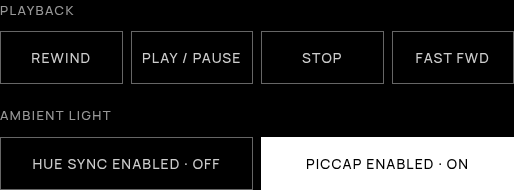
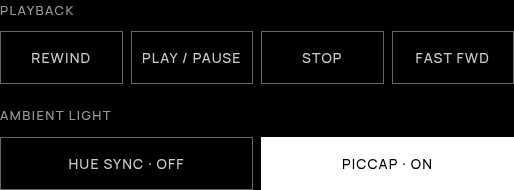
Standardize Ambient Light naming and shorten remote labels

Changed region(s): [[0.0623, 0.8158, 0.4358, 0.8947], [0.5914, 0.8158, 0.9339, 0.8947]]

diff --git a/server/assets/ui.html b/server/assets/ui.html
@@ -66,7 +66,7 @@
     <button type="button" role="tab" data-tab="metrics"><svg class="nav-ico" viewBox="0 0 24 24" aria-hidden="true"><path d="M3 12h4l2-5 4 10 2-5h6"/></svg><span data-t="tab.metrics">Metrics</span></button>
     <button type="button" role="tab" data-tab="apps"><svg class="nav-ico" viewBox="0 0 24 24" aria-hidden="true"><rect x="4" y="4" width="6.5" height="6.5" rx="1.5"/><rect x="13.5" y="4" width="6.5" height="6.5" rx="1.5"/><rect x="4" y="13.5" width="6.5" height="6.5" rx="1.5"/><rect x="13.5" y="13.5" width="6.5" height="6.5" rx="1.5"/></svg><span data-t="tab.apps">Apps</span></button>
     <button type="button" role="tab" data-tab="home" id="tab-btn-home" hidden><svg class="nav-ico" viewBox="0 0 24 24" aria-hidden="true"><path d="M4 11l8-6.5 8 6.5"/><path d="M6.5 9.5V19h11V9.5"/><path d="M10.5 19v-5h3v5"/></svg><span data-t="tab.home">Home</span></button>
-    <button type="button" role="tab" data-tab="ambient"><svg class="nav-ico" viewBox="0 0 24 24" aria-hidden="true"><rect x="6" y="7" width="12" height="10" rx="1.5"/><path d="M3 8v8M21 8v8M8 4h8M8 20h8"/></svg><span data-t="adv.ambient">Ambient light</span></button>
+    <button type="button" role="tab" data-tab="ambient"><svg class="nav-ico" viewBox="0 0 24 24" aria-hidden="true"><rect x="6" y="7" width="12" height="10" rx="1.5"/><path d="M3 8v8M21 8v8M8 4h8M8 20h8"/></svg><span data-t="adv.ambient">Ambient Light</span></button>
     <button type="button" role="tab" data-tab="privacy"><svg class="nav-ico" viewBox="0 0 24 24" aria-hidden="true"><path d="M12 3l7 3v5.5c0 4.4-3 8-7 9.5-4-1.5-7-5.1-7-9.5V6z"/></svg><span data-t="tab.privacy">Privacy</span></button>
     <button type="button" role="tab" data-tab="oledcare" id="tab-btn-oledcare" hidden><svg class="nav-ico" viewBox="0 0 24 24" aria-hidden="true"><rect x="3" y="5" width="18" height="12" rx="1.5"/><path d="M8 20h8M12 8.5v5M9.5 11h5"/></svg><span data-t="tab.oledCare">OLED Care</span></button>
     <button type="button" role="tab" data-tab="game" id="tab-btn-game" hidden><svg class="nav-ico" viewBox="0 0 24 24" aria-hidden="true"><path d="M7 8h10a4 4 0 0 1 4 4v1.5a3 3 0 0 1-5.4 1.8L14.5 14h-5l-1.1 1.3A3 3 0 0 1 3 13.5V12a4 4 0 0 1 4-4z"/><path d="M7.5 11v2.5M6.25 12.25h2.5M16 12h.01"/></svg><span data-t="tab.game">Game</span></button>
@@ -323,10 +323,10 @@
       </div>
 
       <div class="set" id="control-ambient" hidden>
-        <div class="lbl" data-t="adv.ambient">Ambient light</div>
+        <div class="lbl" data-t="adv.ambient">Ambient Light</div>
         <div class="btns">
-          <button type="button" id="ctl_huesync" onclick="toggleHuesync()" aria-pressed="false" hidden><span data-t="adv.huesync">Hue Sync Enabled</span> &middot; <span id="ctl_huesync_state">&mdash;</span></button>
-          <button type="button" id="ctl_piccap" onclick="togglePiccap()" aria-pressed="false" hidden><span data-t="adv.piccap">PicCap Enabled</span> &middot; <span id="ctl_piccap_state">&mdash;</span></button>
+          <button type="button" id="ctl_huesync" onclick="toggleHuesync()" aria-pressed="false" hidden><span data-t="adv.huesync.title">Hue Sync</span> &middot; <span id="ctl_huesync_state">&mdash;</span></button>
+          <button type="button" id="ctl_piccap" onclick="togglePiccap()" aria-pressed="false" hidden><span data-t="ambient.piccap.title">PicCap</span> &middot; <span id="ctl_piccap_state">&mdash;</span></button>
         </div>
       </div>
     </div>
@@ -619,7 +619,7 @@
 </section>
 
 <section class="priv panel" id="ambientpane" role="tabpanel" hidden>
-  <div class="lbl" data-t="adv.ambient">Ambient light</div>
+  <div class="lbl" data-t="adv.ambient">Ambient Light</div>
   <div class="sub" id="ambient-empty" hidden data-t="ambient.none">No ambient light integrations found.</div>
   <div id="ambient-huesync" hidden>
     <div class="pv-sec" data-t="adv.huesync.title">Hue Sync</div>

diff --git a/scripts/check-dashboards.js b/scripts/check-dashboards.js
@@ -2832,7 +2832,7 @@ async function visitHuesyncSettings(browser, base, problems) {
     await page.goto(base + '/?tab=advanced');
     if (await page.locator('#advpane #row-piccap, #advpane #row-huesync').count()) fail('ambient controls remain in System');
     const followsHome = await page.locator('#tabs [data-tab="ambient"]').evaluate(el => el.previousElementSibling.dataset.tab === 'home');
-    if (!followsHome) fail('Ambient light does not follow Home');
+    if (!followsHome) fail('Ambient Light does not follow Home');
     await page.locator('#tabs [data-tab="ambient"]').click();
     await page.waitForSelector('#huesync-settings:not([hidden])');
     const categories = await page.locator('#ambient-huesync, #ambient-piccap').evaluateAll(els => els.filter(el => !el.hidden).map(el => el.querySelector('.pv-sec').textContent));
@@ -2851,8 +2851,8 @@ async function visitHuesyncSettings(browser, base, problems) {
     const underPlayback = await page.evaluate(() => document.getElementById('control-ambient').getBoundingClientRect().top >= document.querySelector('.playback-btns').getBoundingClientRect().bottom);
     if (!underPlayback) fail('remote toggles are not below Playback');
     const shortcuts = await page.locator('#control-ambient button').evaluateAll(els => els.map(el => el.querySelector('[data-t]').textContent));
-    if (JSON.stringify(shortcuts) !== JSON.stringify(['Hue Sync Enabled', 'PicCap Enabled'])) fail('remote shortcut order or names differ from settings');
-    if (await page.locator('#ctl_piccap').getAttribute('aria-pressed') !== 'true' || await page.locator('#ctl_huesync').getAttribute('aria-pressed') !== 'false') fail('remote toggle states differ from Ambient light');
+    if (JSON.stringify(shortcuts) !== JSON.stringify(['Hue Sync', 'PicCap'])) fail('remote shortcut order or short labels are wrong');
+    if (await page.locator('#ctl_piccap').getAttribute('aria-pressed') !== 'true' || await page.locator('#ctl_huesync').getAttribute('aria-pressed') !== 'false') fail('remote toggle states differ from Ambient Light');
     await page.locator('#ctl_huesync').click();
     await page.waitForFunction(() => document.getElementById('ctl_huesync').getAttribute('aria-pressed') === 'true' && document.getElementById('btn_huesync').dataset.on === '1');
     await page.locator('#ctl_piccap').click();
@@ -2861,7 +2861,7 @@ async function visitHuesyncSettings(browser, base, problems) {
     await page.setViewportSize({ width: 390, height: 844 });
     await page.emulateMedia({ colorScheme: 'light' });
     await page.waitForFunction(() => document.getElementById('control-playback').getBoundingClientRect().width > 300);
-    if (await page.evaluate(() => document.documentElement.scrollWidth > window.innerWidth)) fail('remote Enabled labels overflow on a phone');
+    if (await page.evaluate(() => document.documentElement.scrollWidth > window.innerWidth)) fail('remote labels overflow on a phone');
     await page.evaluate(() => showTab('ambient'));
     if (await page.locator('#huesync-current_ec option').first().textContent() !== settings.ec_list[0].name) fail('area name was not rendered as text');
     if (await page.locator('#huesync-settings img').count()) fail('area markup was interpreted');

diff --git a/test/test-dashboard-view.js b/test/test-dashboard-view.js
@@ -147,7 +147,7 @@ vm.runInNewContext(scriptMatch[1] + '\n;' + testPagingSnippet, sandbox);
   console.log('  ✓ optionRows groups Power & standby and Timers with distinct headers');
 })();
 
-// Ambient light keeps both integrations and every Hue Sync control directly accessible.
+// Ambient Light keeps both integrations and every Hue Sync control directly accessible.
 (function testHuesyncRows() {
   var settings = JSON.parse(fs.readFileSync(path.join(__dirname, 'fixtures/huesync-settings.json'), 'utf8')).settings;
   var hs = { streaming: true, writable: true, settings: settings };
@@ -193,7 +193,7 @@ vm.runInNewContext(scriptMatch[1] + '\n;' + testPagingSnippet, sandbox);
 (function testAmbientIntegrations() {
   var keys = sandbox.TABS.map(function (section) { return section.key; });
   var ambient = sandbox.TABS[keys.indexOf('ambient')];
-  assert.strictEqual(keys.indexOf('ambient'), keys.indexOf('home') + 1, 'Ambient light follows Home');
+  assert.strictEqual(keys.indexOf('ambient'), keys.indexOf('home') + 1, 'Ambient Light follows Home');
   assert.strictEqual(ambient.url, '/api/stats', 'ambient controls need no unrelated LG settings');
   assert.strictEqual(ambient.build, sandbox.ambientRows);
   var pc = { running: true, writable: true };
@@ -217,7 +217,7 @@ vm.runInNewContext(scriptMatch[1] + '\n;' + testPagingSnippet, sandbox);
   assert.strictEqual(only[1].next, true);
   assert.strictEqual(only[1].act, null, 'PicCap respects read-only mode');
   assert.strictEqual(sandbox.SUBLISTS.huesyncMore, undefined, 'no ambient submenu remains');
-  console.log('  \u2713 top-level Ambient light menu, independent integrations and empty state');
+  console.log('  \u2713 top-level Ambient Light menu, independent integrations and empty state');
 })();
 
 // 4. page() jumps through rows skipping headers and clamps to bounds

diff --git a/server/assets/dashboard.html b/server/assets/dashboard.html
@@ -426,7 +426,7 @@ var TABS = [
   { key: 'audio',   label: t('tab.audio', 'Audio'),        url: '/api/audio?with=settings', build: audioRows, poll: 8000 },
   { key: 'saver',   label: t('tv.tab.screenSaver', 'Screen Saver'), url: '/api/screensaver', build: saverRows, optional: true },
   { key: 'home',    label: t('tab.home', 'Home'),         url: '/api/home?with=catalogue,channels,lghome', build: homeRows, optional: true },
-  { key: 'ambient', label: t('adv.ambient', 'Ambient light'), url: '/api/stats', build: ambientRows, poll: 5000 },
+  { key: 'ambient', label: t('adv.ambient', 'Ambient Light'), url: '/api/stats', build: ambientRows, poll: 5000 },
   { key: 'privacy', label: t('tab.privacy', 'Privacy'),      url: '/api/privacy',     build: privacyRows },
   { key: 'service', label: t('tv.tab.serviceMenu', 'Service Menu'), url: '/api/servicemenu', build: svcRows },
   { key: 'options', label: t('tv.tab.system', 'System'),       url: '/api/stats?with=settings', build: optionRows, poll: 5000 },

diff --git a/server/assets/ui/search.js b/server/assets/ui/search.js
@@ -18,7 +18,7 @@
   const TAB_ALIASES = window.GLASSHOUSE_SEARCH_ALIASES || {};
 
   const TAB_NAMES = {
-    control: 'Control', metrics: 'Metrics', apps: 'Apps', home: 'Home', ambient: 'Ambient light',
+    control: 'Control', metrics: 'Metrics', apps: 'Apps', home: 'Home', ambient: 'Ambient Light',
     oledcare: 'OLED Care', game: 'Game', servicemenu: 'Service menu',
     screensaver: 'Screensaver', privacy: 'Privacy', advanced: 'System',
     mqtt: 'MQTT', server: 'Server', tools: 'Tools'

diff --git a/server/lib/routes.js b/server/lib/routes.js
@@ -2143,7 +2143,7 @@ function handleRequest(req, res) {
   if (pathname === '/api/stats') {
     return telemetryModule.collectStats(function (s) {
       // PicCap's capture and Hue Sync's streaming, where installed, for the
-      // Ambient light tab.
+      // Ambient Light tab.
       piccapStatusFn(function (pc) {
         huesyncStatusFn(function (hs) {
           var keyboardUp = keyboardUpFn();

diff --git a/server/assets/ui/controls.js b/server/assets/ui/controls.js
@@ -1,4 +1,4 @@
-// The Control, System and Ambient light tabs: power, volume, backlight and the TV's switches.
+// The Control, System and Ambient Light tabs: power, volume, backlight and the TV's switches.
 
 let errTimer = null;
 function clearErr() {

diff --git a/docs/IMPLEMENTATION.md b/docs/IMPLEMENTATION.md
@@ -1914,11 +1914,11 @@ Custom QML screensavers are staged in `/var/lib/tvweb/screensaver` and bind-moun
 
 ## PicCap
 
-The server asks PicCap's service only where `/media/developer/apps/usr/palm/applications/org.webosbrew.piccap` exists and webOS is version 3 or later, so a TV without it or running webOS 2 starts no `luna-send` for it (querying PicCap's native service on webOS 2 stalled the Luna bus and tripped a watchdog reboot, #746). For Home Assistant it polls every `piccap.pollIntervalMs` milliseconds (30 seconds by default) while MQTT is connected and the `piccap` entity is not switched off in the entity settings. An old `"piccap": {"enabled": false}` is turned into exactly that at start-up, and the key removed. Telemetry includes boolean `piccap.power` while PicCap answers; the bridge publishes retained `ON` or `OFF` to `<prefix>/state/piccap/power`, and `<prefix>/command/piccap/power` accepts `ON` or `OFF` when `allowControl` is enabled. Discovery carries the `piccap` switch only while a status check has answered, and is republished when that changes. `/api/stats` adds `piccapCapture: {running}` where PicCap answers, for the Ambient light page and Control quick toggle, which send the `piccap` control; `writable` reflects `allowControl` on both dashboards.
+The server asks PicCap's service only where `/media/developer/apps/usr/palm/applications/org.webosbrew.piccap` exists and webOS is version 3 or later, so a TV without it or running webOS 2 starts no `luna-send` for it (querying PicCap's native service on webOS 2 stalled the Luna bus and tripped a watchdog reboot, #746). For Home Assistant it polls every `piccap.pollIntervalMs` milliseconds (30 seconds by default) while MQTT is connected and the `piccap` entity is not switched off in the entity settings. An old `"piccap": {"enabled": false}` is turned into exactly that at start-up, and the key removed. Telemetry includes boolean `piccap.power` while PicCap answers; the bridge publishes retained `ON` or `OFF` to `<prefix>/state/piccap/power`, and `<prefix>/command/piccap/power` accepts `ON` or `OFF` when `allowControl` is enabled. Discovery carries the `piccap` switch only while a status check has answered, and is republished when that changes. `/api/stats` adds `piccapCapture: {running}` where PicCap answers, for the Ambient Light page and Control quick toggle, which send the `piccap` control; `writable` reflects `allowControl` on both dashboards.
 
 ## Hue Sync
 
-Hue Sync is offered where `/media/cryptofs/apps/usr/palm/services/com.lighting.huesync.service` exists, the retail install from LG's store, so a TV without the app starts no `luna-send` for it. For Home Assistant it polls `com.lighting.huesync.service/get` (`{"key":"streaming","data":""}`, the reply carries the state as `value`: `"0"` stopped, `"1"` streaming) every `huesync.pollIntervalMs` milliseconds (30 seconds by default) while MQTT is connected and the `huesync` entity is not switched off in the entity settings. Every call carries the app's ACL id `com.lighting.huesync`, the service's own. Toggling sends `com.lighting.huesync.service/set` with `{"key":"streaming","data":true|false}` and re-reads the state 400 ms later, like PicCap's start/stop; an enable instead waits 3 s after each `set` and is sent again until that re-read reports streaming, up to three attempts, because the app answers the first `set` with `returnValue` true while its own `get` still reads `"0"`, or reads `"1"` once and falls back to `"0"` seconds later. Telemetry includes boolean `huesync.streaming` while Hue Sync answers; the bridge publishes retained `ON` or `OFF` to `<prefix>/state/huesync/power`, and `<prefix>/command/huesync/power` accepts `ON` or `OFF` when `allowControl` is enabled. Discovery carries the `huesync` switch only while a status check has answered, and is republished when that changes. `/api/stats` adds `huesyncStreaming: {streaming}` where Hue Sync answers, for the Ambient light page and Control quick toggle, which send the `huesync` control.
+Hue Sync is offered where `/media/cryptofs/apps/usr/palm/services/com.lighting.huesync.service` exists, the retail install from LG's store, so a TV without the app starts no `luna-send` for it. For Home Assistant it polls `com.lighting.huesync.service/get` (`{"key":"streaming","data":""}`, the reply carries the state as `value`: `"0"` stopped, `"1"` streaming) every `huesync.pollIntervalMs` milliseconds (30 seconds by default) while MQTT is connected and the `huesync` entity is not switched off in the entity settings. Every call carries the app's ACL id `com.lighting.huesync`, the service's own. Toggling sends `com.lighting.huesync.service/set` with `{"key":"streaming","data":true|false}` and re-reads the state 400 ms later, like PicCap's start/stop; an enable instead waits 3 s after each `set` and is sent again until that re-read reports streaming, up to three attempts, because the app answers the first `set` with `returnValue` true while its own `get` still reads `"0"`, or reads `"1"` once and falls back to `"0"` seconds later. Telemetry includes boolean `huesync.streaming` while Hue Sync answers; the bridge publishes retained `ON` or `OFF` to `<prefix>/state/huesync/power`, and `<prefix>/command/huesync/power` accepts `ON` or `OFF` when `allowControl` is enabled. Discovery carries the `huesync` switch only while a status check has answered, and is republished when that changes. `/api/stats` adds `huesyncStreaming: {streaming}` where Hue Sync answers, for the Ambient Light page and Control quick toggle, which send the `huesync` control.
 
 
 
@@ -1957,11 +1957,11 @@ Assistant; it is used internally for control validation and dashboard write perm
 
 The TV app's Hue Sync rows are in `server/assets/dashboard.html`; both the
 Homebrew Channel launcher in `hbc/app/` and `assets/dashboard-app/` load that page.
-Its Ambient light menu follows Home and reuses the existing remote adjustment
+Its Ambient Light menu follows Home and reuses the existing remote adjustment
 bar and write queue for brightness, with native-value cycles for selects. Both
 dashboards have separate Hue Sync and PicCap categories, in that order, with
 Hue Sync Enabled and PicCap Enabled switches. Every supported setting appears
 directly. The web Control page has the same toggles below Playback; they share
-state and write permissions with Ambient light. Status callbacks check the apps’
+state and write permissions with Ambient Light. Status callbacks check the apps’
 install paths before calling Luna, and unavailable integrations are hidden as
 complete categories and shortcuts.

diff --git a/docs/huesync.md b/docs/huesync.md
@@ -13,9 +13,9 @@ Hue Sync is optional. Glasshouse inspects the TV filesystem for the app's servic
 * **If Hue Sync is not installed:** Glasshouse never queries its Luna service, opens no Luna subscription and sends no network requests. Nothing about it appears anywhere.
 * **If Hue Sync is installed:** Glasshouse queries its service (`com.lighting.huesync.service/get`) to check whether streaming is active.
 
-### The Ambient light page
+### The Ambient Light page
 
-When Hue Sync is installed, the **Ambient light** page (`/?tab=ambient`), below Home in the sidebar, shows a **Hue Sync** category before PicCap, with a **Hue Sync Enabled** toggle. The **Control** page also has a quick toggle below Playback:
+When Hue Sync is installed, the **Ambient Light** page (`/?tab=ambient`), below Home in the sidebar, shows a **Hue Sync** category before PicCap, with a **Hue Sync Enabled** toggle. The **Control** page also has a quick toggle below Playback:
 
 * **On:** Instructs Hue Sync's service to start streaming (`com.lighting.huesync.service/set` with `{"key":"streaming","data":true}`). The Ambience light starts following the screen. The app often does not start on an enable without saying so, so Glasshouse sends the enable, waits 3 seconds and asks the app's own state; if it still is not streaming, it sends the enable again, up to three tries in all: one click is enough.
 * **Off:** Instructs the service to stop (`data: false`). The Ambience light stops, and the app stops streaming colour with it.
@@ -67,7 +67,7 @@ action:
 ### In the Web Dashboard
 
 1. Open the Glasshouse dashboard in any browser.
-2. Go to **Ambient light** (`/?tab=ambient`), below Home in the sidebar.
+2. Go to **Ambient Light** (`/?tab=ambient`), below Home in the sidebar.
 3. Click **Hue Sync Enabled** to start or stop syncing, or use the quick toggle below Playback on **Control**.
 
 ### In Home Assistant
@@ -106,7 +106,7 @@ In `config.json`, the following settings govern Hue Sync:
 
 ## Sync settings
 
-The web dashboard and TV app's **Ambient light** pages offer brightness (0–100%), intensity
+The web dashboard and TV app's **Ambient Light** pages offer brightness (0–100%), intensity
 (Subtle, Moderate, High, Extreme), synchronization mode (Video or Game),
 entertainment area, background light separately for video and games, and
 automatic start and automatic-start notifications. All controls are shown
@@ -160,7 +160,7 @@ by the retail app. Glasshouse does not invoke those setup or telemetry actions.
 
 The screenshot uses simulated service responses; it is not a hardware test.
 
-On the TV app, use **Ambient light** in the top-level menu, after Home. Press OK to toggle streaming or cycle
+On the TV app, use **Ambient Light** in the top-level menu, after Home. Press OK to toggle streaming or cycle
 intensity, mode and entertainment area. For brightness, press OK, adjust with
 the arrow keys, then press OK or Back to finish. Background-light and startup
 switches are on the same page. PicCap and Hue Sync can run independently.

diff --git a/docs/piccap.md b/docs/piccap.md
@@ -1,4 +1,4 @@
-# PicCap and ambient light
+# PicCap and Ambient Light
 
 [PicCap](https://github.com/TBSniller/piccap) is an open-source background screen capture tool for rooted LG webOS TVs. It captures what is currently on screen and streams video frames over the local network to an ambient lighting server—typically [Hyperion](https://hyperion-project.org/) or [HyperHDR](https://github.com/awawa-dev/HyperHDR).
 
@@ -17,9 +17,9 @@ PicCap is optional. Glasshouse inspects the TV filesystem for PicCap's applicati
 * **If PicCap is not installed or the TV runs webOS 2:** Glasshouse never queries Luna for PicCap, starts no timers, and sends no network requests. PicCap requires webOS 3 or newer; querying its service on webOS 2 stalls the Luna bus and causes watchdog resets (#746).
 * **If PicCap is installed (webOS 3+):** Glasshouse queries PicCap's background Luna service (`org.webosbrew.piccap.service/status`) to check whether capture is active.
 
-### The Ambient light page
+### The Ambient Light page
 
-When PicCap is installed, **Ambient light** (`/?tab=ambient`), below Home in the sidebar and a top-level menu in the TV app, shows a **PicCap** category with a **PicCap Enabled** toggle after Hue Sync. Capture can feed Hyperion or HyperHDR. **Control** also has a quick toggle below Playback:
+When PicCap is installed, **Ambient Light** (`/?tab=ambient`), below Home in the sidebar and a top-level menu in the TV app, shows a **PicCap** category with a **PicCap Enabled** toggle after Hue Sync. Capture can feed Hyperion or HyperHDR. **Control** also has a quick toggle below Playback:
 
 * **On:** Instructs PicCap's service to start capturing (`org.webosbrew.piccap.service/start`). The ambient backlights turn on and follow the screen.
 * **Off:** Instructs PicCap to stop capturing (`org.webosbrew.piccap.service/stop`). The ambient backlights turn dark, and the TV's processor stops encoding video frames.
@@ -99,7 +99,7 @@ Once PicCap is installed and configured, Glasshouse automatically detects it on 
 ### In the Web Dashboard
 
 1. Open the Glasshouse dashboard in any browser.
-2. Go to **Ambient light** (`/?tab=ambient`), below Home in the sidebar.
+2. Go to **Ambient Light** (`/?tab=ambient`), below Home in the sidebar.
 3. Click **PicCap Enabled** to toggle capture, or use its quick toggle below Playback on **Control**.
 
 ### In Home Assistant

diff --git a/docs/apps/tv-app.md b/docs/apps/tv-app.md
@@ -105,9 +105,9 @@ The app can be added or removed at any time:
 
 Removing the app changes nothing else, since the dashboard server continues to run in the background and reaches any browser on the network regardless. Where a TV model will not take the app, the control is hidden and everything else works as before.
 
-### Ambient light
+### Ambient Light
 
-The **Ambient light** top-level menu follows Home. **Hue Sync** and **PicCap**
+The **Ambient Light** top-level menu follows Home. **Hue Sync** and **PicCap**
 have their own categories, in that order, with **Hue Sync Enabled** and
 **PicCap Enabled** switches. An unavailable integration is hidden, including its
 category heading. PicCap supports Hyperion or HyperHDR. All Hue Sync controls are shown directly:
@@ -115,6 +115,6 @@ brightness, intensity, Video/Game mode, entertainment area, background light for
 each mode, automatic start and its notification. Press OK to toggle or cycle a
 setting. For brightness, press OK, adjust with the arrows, then OK or Back to
 finish. Controls respect read-only, busy and stale states; failed actions show a
-brief error. See [Ambient light](../dashboard/ambient-light.md).
+brief error. See [Ambient Light](../dashboard/ambient-light.md).
 
-![Ambient light controls in the TV app, simulated data](../screenshots/huesync-tv-controls.png)
+![Ambient Light controls in the TV app, simulated data](../screenshots/huesync-tv-controls.png)

diff --git a/docs/development/testing.md b/docs/development/testing.md
@@ -568,14 +568,14 @@ missing JSON properties become `none` rather than undefined.
 The Hue Sync event tests also verify that internal readiness and busy status
 create no Home Assistant diagnostic entities or diagnostic MQTT publications.
 
-Ambient light dashboard checks cover the top-level page below Home, every Hue
+Ambient Light dashboard checks cover the top-level page below Home, every Hue
 Sync setting directly accessible, and independent PicCap/Hue Sync switches. The
 web Control shortcuts stay below Playback and share state and write permissions
-with Ambient light. Checks cover narrow/light and wide/dark layouts, native
+with Ambient Light. Checks cover narrow/light and wide/dark layouts, native
 command types, duplicate area names, failed writes, read-only/busy states and
 disappearing integrations. Both dashboards check separate integration categories,
-Hue Sync before PicCap, consistent Enabled labels, and availability combinations
-with neither, either or both integrations. Missing integrations leave no empty
+Hue Sync before PicCap, Enabled labels in settings, shorter remote labels, and
+availability combinations with neither, either or both integrations. Missing integrations leave no empty
 headings or shortcuts. PicCap descriptions name both Hyperion and HyperHDR.
 `test-dashboard-view.js` also checks the TV menu order, flat row grouping, empty
 state and per-field stale permissions.
